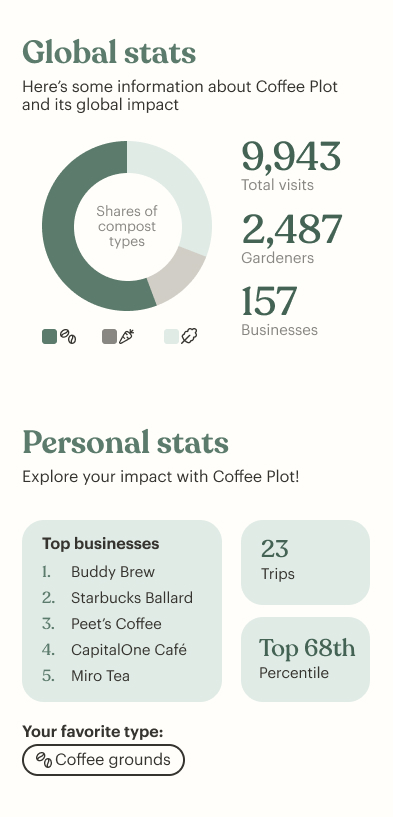
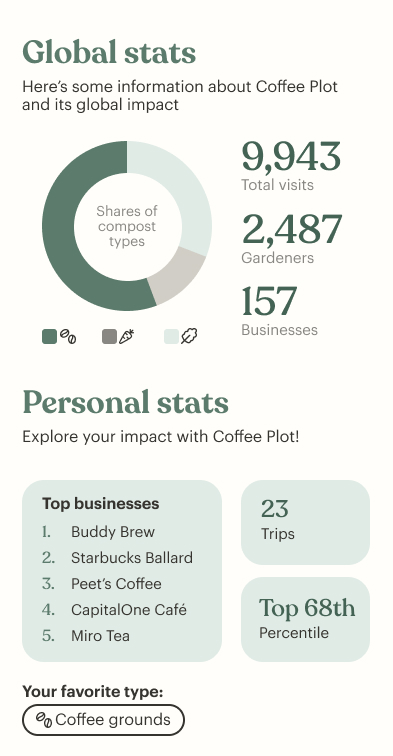
STATS PAGE DONEZO

diff --git a/coffe_plot_frontend/lib/pages/stats_page.dart b/coffe_plot_frontend/lib/pages/stats_page.dart
@@ -5,13 +5,13 @@ class StatsPage extends StatelessWidget {
   @override
   Widget build(BuildContext context) {
     return Scaffold(
-      appBar: AppBar(
-        title: Text('Stats Page'),
-      ),
       backgroundColor: Color(0xFFFFFEFA),
-      body: Center(
+      body: Container(
         child: Image(
           image: AssetImage('lib/svgs/stats-image.jpg'),
+          fit: BoxFit.contain,//fill, //contain, cover, scaleDown, 
+          height: double.infinity,
+          width: double.infinity,
         ),
       ),
     );

diff --git a/coffe_plot_frontend/lib/main.dart b/coffe_plot_frontend/lib/main.dart
@@ -8,6 +8,7 @@ class MyApp extends StatelessWidget {
   @override
   Widget build(BuildContext context) {
     return MaterialApp(
+      debugShowCheckedModeBanner: false, // remove debug banner
       title: 'Your App Title',
       theme: ThemeData(
           primarySwatch: Colors.blue, fontFamily: 'GraphikLCG-Regular'),
